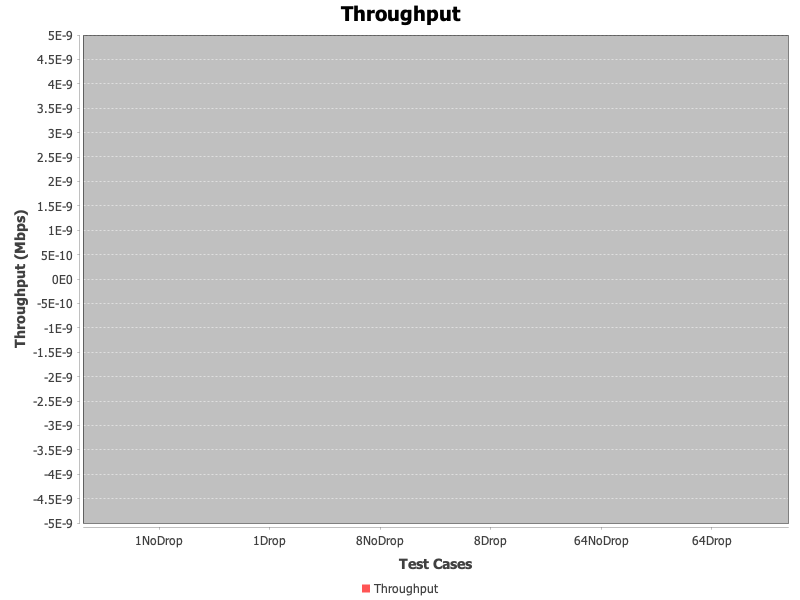
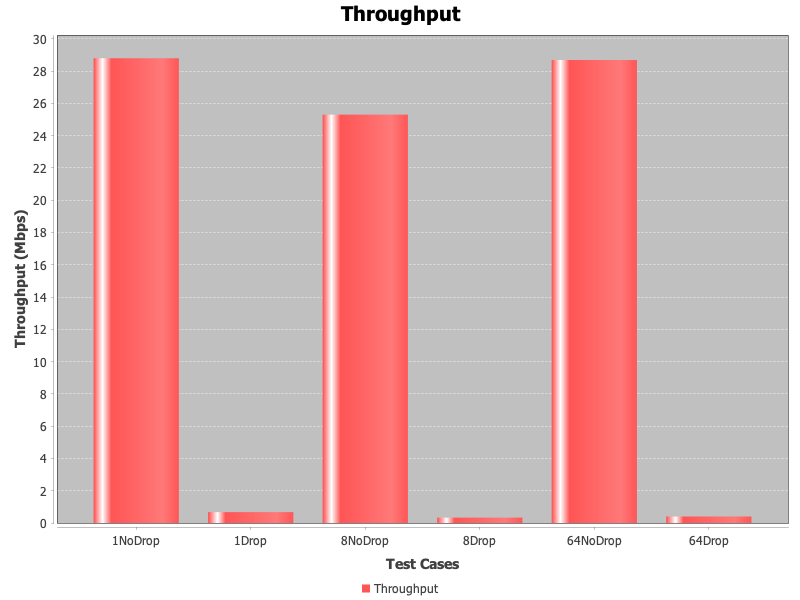
Results graph implemented, designed and displayed
on local-local host to server connection

Changed region(s): [[0.0312, 0.03, 0.6562, 0.96], [0.6875, 0.09, 0.9375, 0.93]]

diff --git a/src/main/java/local-local.html b/src/main/java/local-local.html
@@ -41,6 +41,17 @@
         nav a:hover {
           background-color: #606c38;
         }
+        resultChart {
+            display: block;
+            margin-left: auto;
+            margin-right: auto;
+        }
+        hr {
+            height: 0;
+            border: none;
+            border-top: 5px solid #a3b18a;
+            margin: 20px 10px;
+        }
     </style>
 </head>
 <body style="background-color: #ccd5ae;">
@@ -55,28 +66,37 @@
     </ul>
 </nav>
 <main style="background-color: #fefae0; margin: 0 150px;">
-<div id="content" ></div>
-<script>
-    const files = [
-      'local-local/htmlFiles/drop_disable_1_throughput.html',
-      'local-local/htmlFiles/drop_enable_1_throughput.html',
-      'local-local/htmlFiles/drop_disable_8_throughput.html',
-      'local-local/htmlFiles/drop_enable_8_throughput.html',
-      'local-local/htmlFiles/drop_disable_64_throughput.html',
-      'local-local/htmlFiles/drop_enable_64_throughput.html'
-    ];
-    const container = document.getElementById('content');
+    <div id="content">
+        <div style="text-align: center; padding: 60px 0;">
+<!--            <img src="local-local/temp/drop_enable_64_blogs.biomedcentral.com_bmcseriesblog_wp-content_uploads_sites_9_2017_03_ChowChow2Szczecin.jpg"/>-->
+            <img src="local-local/resultsCSV/bar_chart.png" alt="local to local throughput chart" class="resultChart"/>
 
-    files.forEach(file => {
-      fetch(file)
-        .then(response => response.text())
-        .then(data => {
-          container.innerHTML += data;
-        })
-        .catch(error => console.error('Error loading', file, error));
-    });
-</script>
+        </div>
+        <hr/>
+        <script>
+            const files = [
+              'local-local/htmlFiles/drop_disable_1_throughput.html',
+              'local-local/htmlFiles/drop_enable_1_throughput.html',
+              'local-local/htmlFiles/drop_disable_8_throughput.html',
+              'local-local/htmlFiles/drop_enable_8_throughput.html',
+              'local-local/htmlFiles/drop_disable_64_throughput.html',
+              'local-local/htmlFiles/drop_enable_64_throughput.html'
+            ];
+            const container = document.getElementById('content');
+
+          (async function loadFilesSequentially() {
+            for (const file of files) {
+              try {
+                const response = await fetch(file);
+                const data = await response.text();
+                container.innerHTML += data;
+              } catch (error) {
+                console.error('Error loading', file, error);
+              }
+            }
+          })();
+        </script>
+    </div>
 </main>
 </body>
 </html>
-

diff --git a/src/main/java/local-local/htmlFiles/drop_enable_64_throughput.html b/src/main/java/local-local/htmlFiles/drop_enable_64_throughput.html
@@ -6,8 +6,8 @@
     </div> 
     <div style='flex: 1; padding-left: 20px; align-content:end;'> 
       <p>File Size: 1281499 bytes</p> 
-      <p>Elapsed Time: 25.294 seconds</p> 
-      <p>Throughput: 0.40531052746703145 Mbps</p> 
+      <p>Elapsed Time: 22.528 seconds</p> 
+      <p>Throughput: 0.45507369951391813 Mbps</p> 
     </div>
   </div> 
 </div> 

diff --git a/src/main/java/GraphGenerator.java b/src/main/java/GraphGenerator.java
@@ -1,3 +1,4 @@
+import java.awt.*;
 import java.io.BufferedReader;
 import java.io.File;
 import java.io.FileReader;
@@ -6,10 +7,18 @@ import java.io.IOException;
 import org.jfree.chart.ChartFactory;
 import org.jfree.chart.ChartUtils;
 import org.jfree.chart.JFreeChart;
+import org.jfree.chart.plot.CategoryPlot;
 import org.jfree.chart.plot.PlotOrientation;
+import org.jfree.chart.renderer.category.BarRenderer;
 import org.jfree.data.category.DefaultCategoryDataset;
 
 public class GraphGenerator {
+
+    private static final String host_to_server = "local-local";
+
+//    private static final String host_to_server = "pi-rho";
+//
+//    private static final String host_to_server = "rho-moxie";
 
     /**
      * Generates a bar chart using throughput data from CSV files.
@@ -47,6 +56,18 @@ public class GraphGenerator {
                 dataset,
                 PlotOrientation.VERTICAL,
                 true, true, false);
+
+
+        // Set the bar color to green.
+        CategoryPlot plot = barChart.getCategoryPlot();
+        BarRenderer renderer = (BarRenderer) plot.getRenderer();
+        Color green = Color.decode("#a3b18a");
+        renderer.setSeriesPaint(0, green);
+
+        // Set the plot background to white.
+        Color grey =Color.decode("#ede6dd");
+        plot.setBackgroundPaint(grey);
+
 
         int width = 800;
         int height = 600;
@@ -88,20 +109,21 @@ public class GraphGenerator {
 
     // Example main method for testing.
     public static void main(String[] args) {
-        // Example CSV file paths (update these paths as needed).
+        String baseDir = System.getProperty("user.dir") + File.separator + "src" + File.separator + "main" + File.separator + "java" + File.separator + host_to_server + File.separator + "resultsCSV" + File.separator;
         String[] csvFiles = {
-                "htmlFiles/drop_disable_1_throughput.csv",
-                "htmlFiles/drop_enable_1_throughput.csv",
-                "htmlFiles/drop_disable_8_throughput.csv",
-                "htmlFiles/drop_enable_8_throughput.csv",
-                "htmlFiles/drop_disable_64_throughput.csv",
-                "htmlFiles/drop_enable_64_throughput.csv"
+                baseDir + "drop_disable_1_throughput.csv",
+                baseDir + "drop_enable_1_throughput.csv",
+                baseDir + "drop_disable_8_throughput.csv",
+                baseDir + "drop_enable_8_throughput.csv",
+                baseDir + "drop_disable_64_throughput.csv",
+                baseDir + "drop_enable_64_throughput.csv"
         };
+
         // Corresponding x-axis labels.
         String[] xAxisLabels = {"1NoDrop", "1Drop", "8NoDrop", "8Drop", "64NoDrop", "64Drop"};
 
         generateBarChart(csvFiles, xAxisLabels,
                 "Throughput", "Test Cases", "Throughput (Mbps)",
-                 "bar_chart.png");
+                 baseDir+ "bar_chart.png");
     }
 }

diff --git a/src/main/java/Client.java b/src/main/java/Client.java
@@ -135,9 +135,14 @@ public class Client {
 
     private static void generateReport(long fileSize, double elapsedSeconds, double throughputMbps, File downloadedFile)
             throws IOException {
-        File resultDir = new File(host_to_server + File.separator + "htmlFiles");
-        if (!resultDir.exists()) {
-            resultDir.mkdirs();
+        File resultDirHTML = new File(host_to_server + File.separator + "htmlFiles");
+        if (!resultDirHTML.exists()) {
+            resultDirHTML.mkdirs();
+        }
+
+        File resultDirCSV = new File(host_to_server + File.separator + "htmlFiles");
+        if (!resultDirCSV.exists()) {
+            resultDirCSV.mkdirs();
         }
         // Create a base name for both the HTML and CSV files.
         String baseName = "drop_" + drop + "_" + windowSize + "_throughput";
@@ -158,7 +163,7 @@ public class Client {
                         "</div> \n";
 
         // Save the HTML report.
-        File htmlFile = new File(resultDir, htmlFileName);
+        File htmlFile = new File(resultDirHTML, htmlFileName);
         try (FileWriter writer = new FileWriter(htmlFile)) {
             writer.write(htmlContent);
         }
@@ -166,7 +171,7 @@ public class Client {
 
         // Save the throughput data in a CSV file.
         String csvFileName = baseName + ".csv";
-        File csvFile = new File(host_to_server, csvFileName);
+        File csvFile = new File(resultDirCSV, csvFileName);
         try (FileWriter csvWriter = new FileWriter(csvFile)) {
             // Write header and data row.
             csvWriter.write("FileSize,ElapsedTime,Throughput\n");
